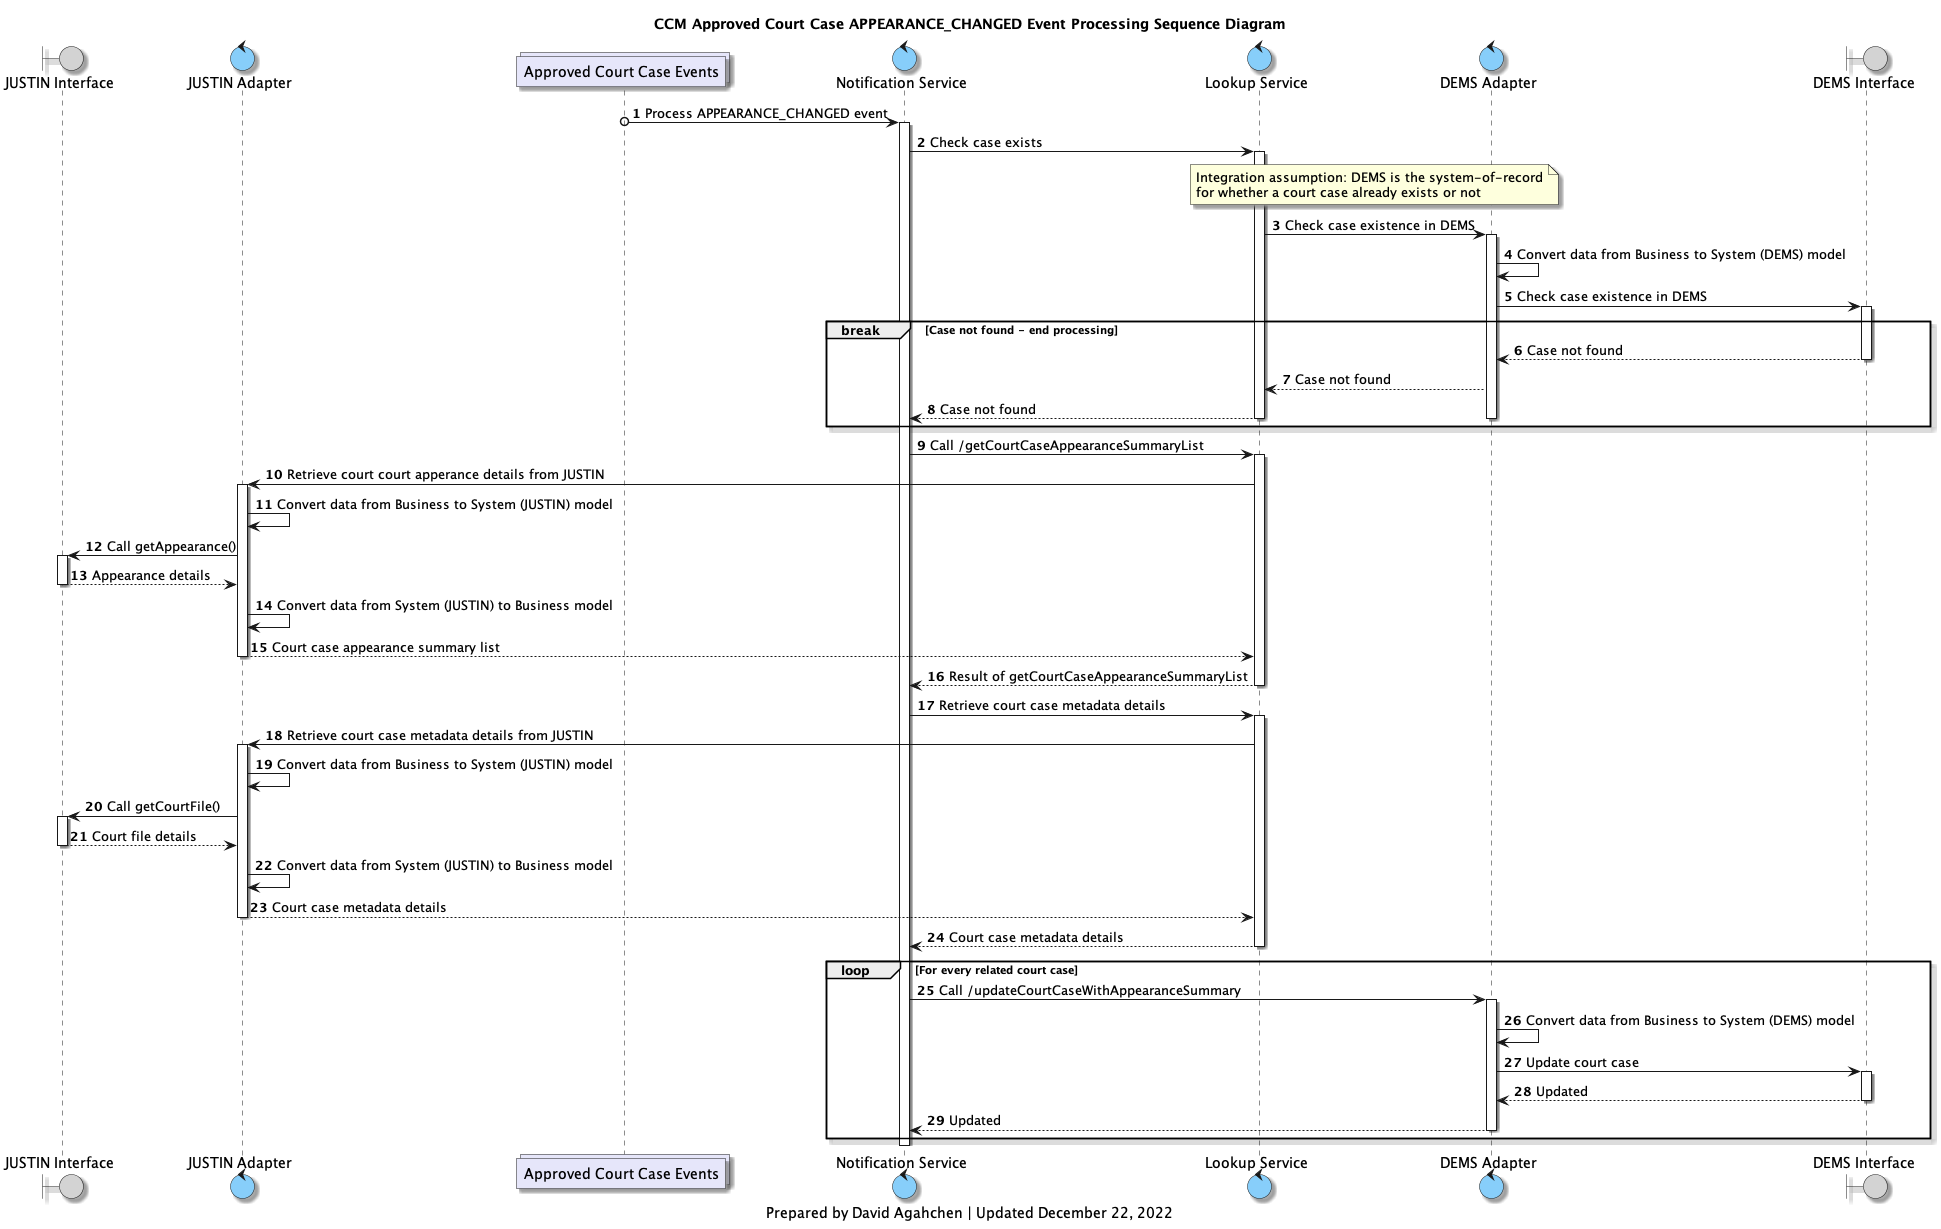
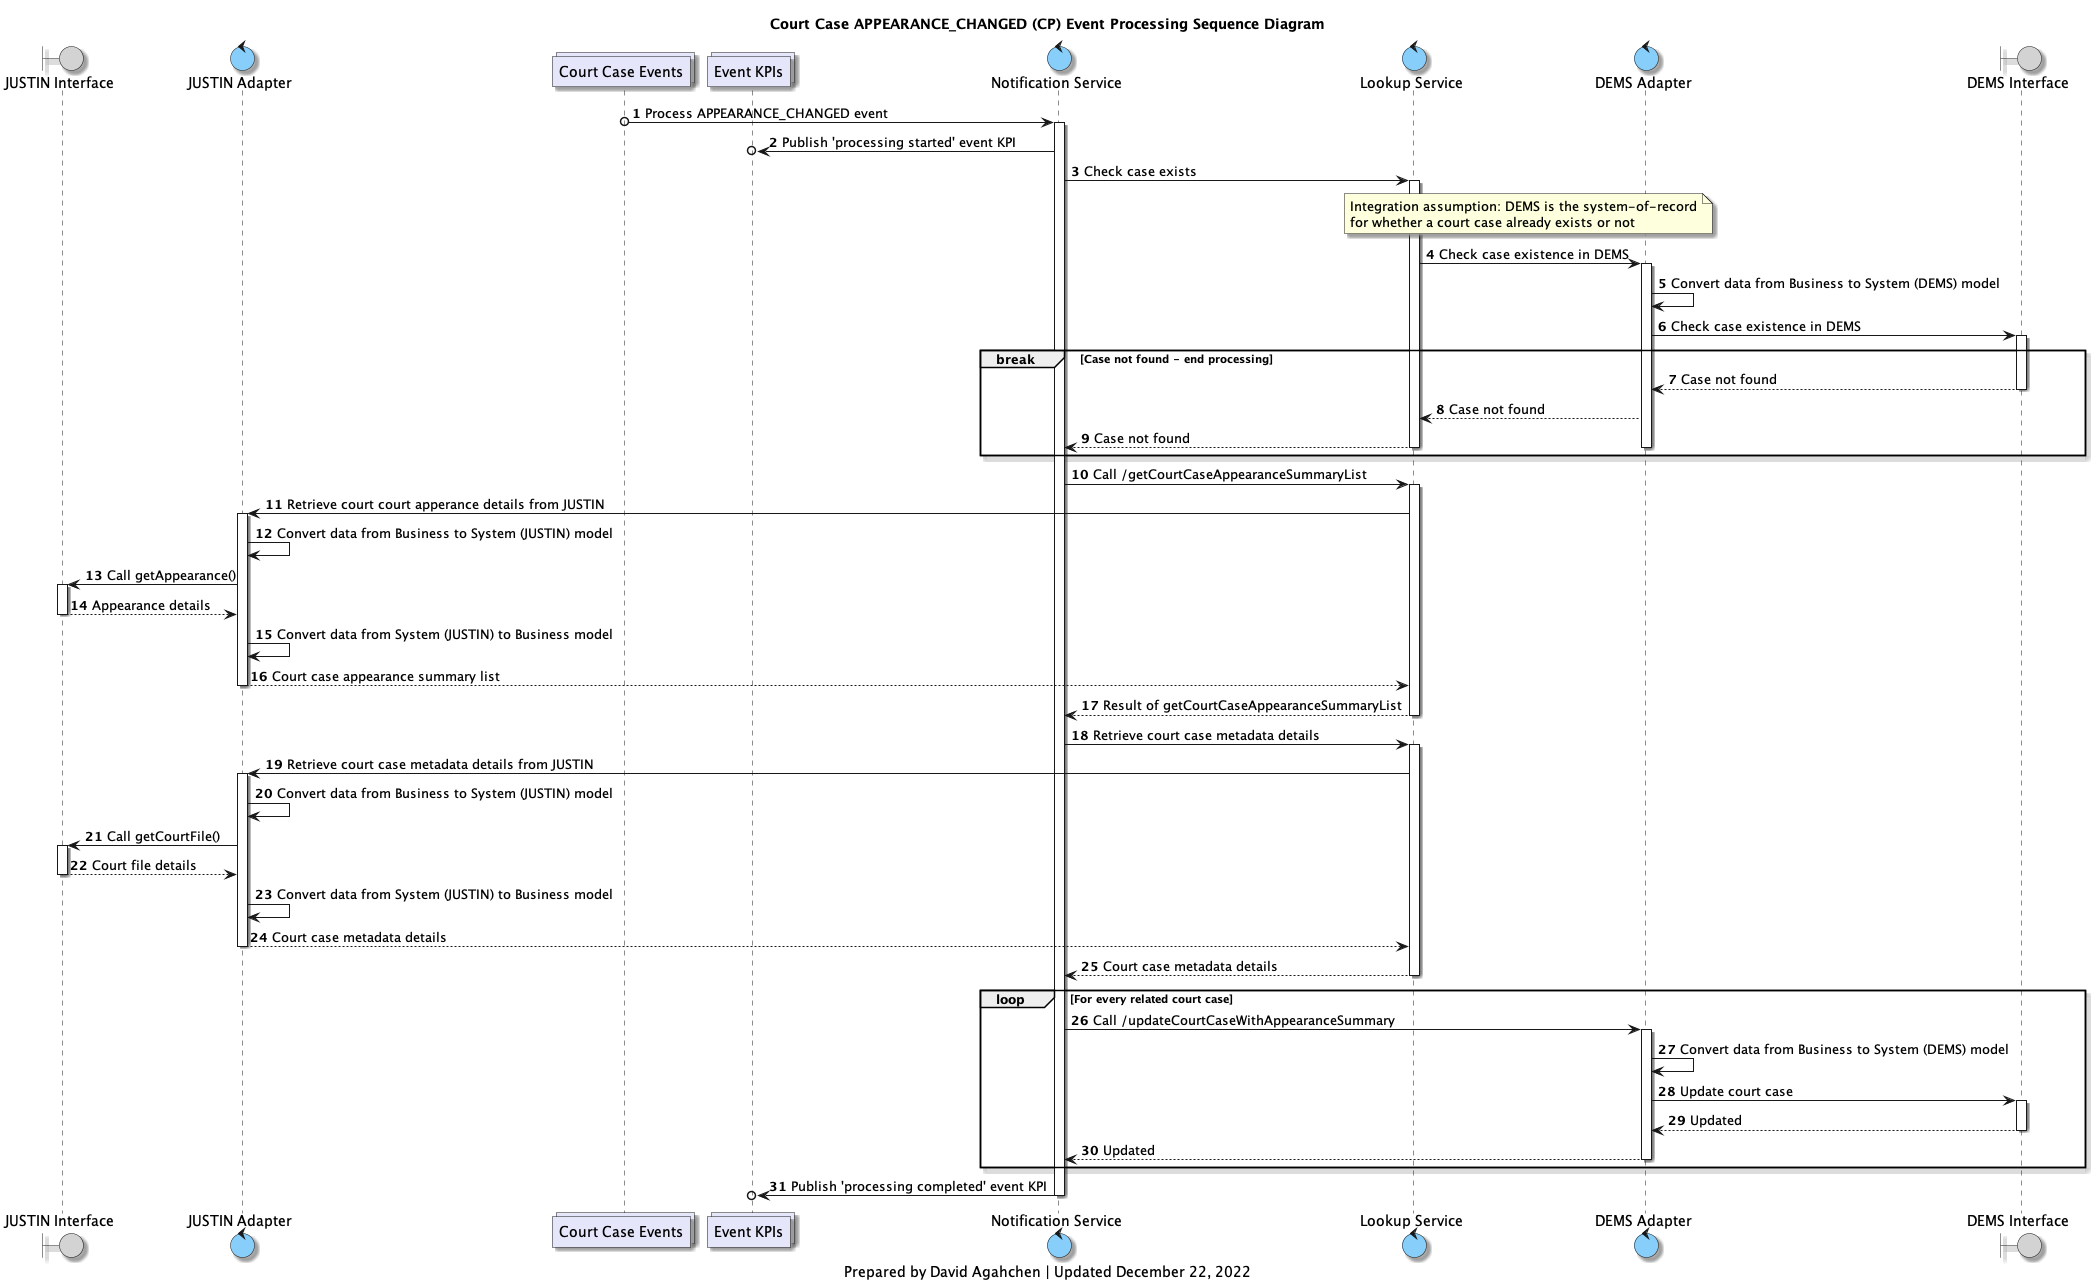
JADE-2038 changes

diff --git a/src/main/java/ccm/CcmNotificationService.java b/src/main/java/ccm/CcmNotificationService.java
@@ -31,7 +31,6 @@ import ccm.models.common.event.Error;
 import ccm.models.common.event.EventKPI;
 import ccm.utils.DateTimeUtils;
 import ccm.utils.KafkaComponentUtils;
-import ccm.models.system.justin.*;
 
 public class CcmNotificationService extends RouteBuilder {
   @Override
@@ -884,12 +883,25 @@ public class CcmNotificationService extends RouteBuilder {
     .setProperty("metadata_data", simple("${bodyAs(String)}"))
     .split()
       .jsonpathWriteAsString("$.related_agency_file")
-      .setHeader("rcc_id", jsonpath("$.rcc_id"))
-      .log("Found related court case. Rcc_id: ${header.rcc_id}")
-      .setBody(simple("${exchangeProperty.business_data}"))
-      .setHeader(Exchange.HTTP_METHOD, simple("PUT"))
-      .setHeader(Exchange.CONTENT_TYPE, constant("application/json"))
-      .to("http://ccm-dems-adapter/updateCourtCaseWithAppearanceSummary")
+      .setProperty("rcc_id", jsonpath("$.rcc_id"))
+      .log("Check case (rcc_id ${exchangeProperty.rcc_id}) existence ...")
+      .setHeader("number", simple("${exchangeProperty.rcc_id}"))
+      .to("http://ccm-lookup-service/getCourtCaseExists")
+      .unmarshal().json()
+      .setProperty("caseId").simple("${body[id]}")
+      .choice()
+        .when(simple("${exchangeProperty.caseId} != ''"))
+          .setHeader("rcc_id", simple("${exchangeProperty.rcc_id}"))
+          .log("Found related court case. Rcc_id: ${header.rcc_id}")
+          .setBody(simple("${exchangeProperty.business_data}"))
+          .setHeader(Exchange.HTTP_METHOD, simple("PUT"))
+          .setHeader(Exchange.CONTENT_TYPE, constant("application/json"))
+          .to("http://ccm-dems-adapter/updateCourtCaseWithAppearanceSummary")
+          .endChoice()
+        .otherwise()
+          .log("Case (rcc_id ${exchangeProperty.rcc_id}) not found; do nothing.")
+          .endChoice()
+        .end()
     .end()
     ;
   }
@@ -915,12 +927,25 @@ public class CcmNotificationService extends RouteBuilder {
     .setProperty("metadata_data", simple("${bodyAs(String)}"))
     .split()
       .jsonpathWriteAsString("$.related_agency_file")
-      .setHeader("rcc_id", jsonpath("$.rcc_id"))
-      .log("Found related court case. Rcc_id: ${header.rcc_id}")
-      .setBody(simple("${exchangeProperty.business_data}"))
-      .setHeader(Exchange.HTTP_METHOD, simple("PUT"))
-      .setHeader(Exchange.CONTENT_TYPE, constant("application/json"))
-      .to("http://ccm-dems-adapter/updateCourtCaseWithCrownAssignmentData")
+      .setProperty("rcc_id", jsonpath("$.rcc_id"))
+      .log("Check case (rcc_id ${exchangeProperty.rcc_id}) existence ...")
+      .setHeader("number", simple("${exchangeProperty.rcc_id}"))
+      .to("http://ccm-lookup-service/getCourtCaseExists")
+      .unmarshal().json()
+      .setProperty("caseId").simple("${body[id]}")
+      .choice()
+        .when(simple("${exchangeProperty.caseId} != ''"))
+          .setHeader("rcc_id", simple("${exchangeProperty.rcc_id}"))
+          .log("Found related court case. Rcc_id: ${header.rcc_id}")
+          .setBody(simple("${exchangeProperty.business_data}"))
+          .setHeader(Exchange.HTTP_METHOD, simple("PUT"))
+          .setHeader(Exchange.CONTENT_TYPE, constant("application/json"))
+          .to("http://ccm-dems-adapter/updateCourtCaseWithCrownAssignmentData")
+          .endChoice()
+        .otherwise()
+          .log("Case (rcc_id ${exchangeProperty.rcc_id}) not found; do nothing.")
+          .endChoice()
+        .end()
     .end()
     ;
   }
